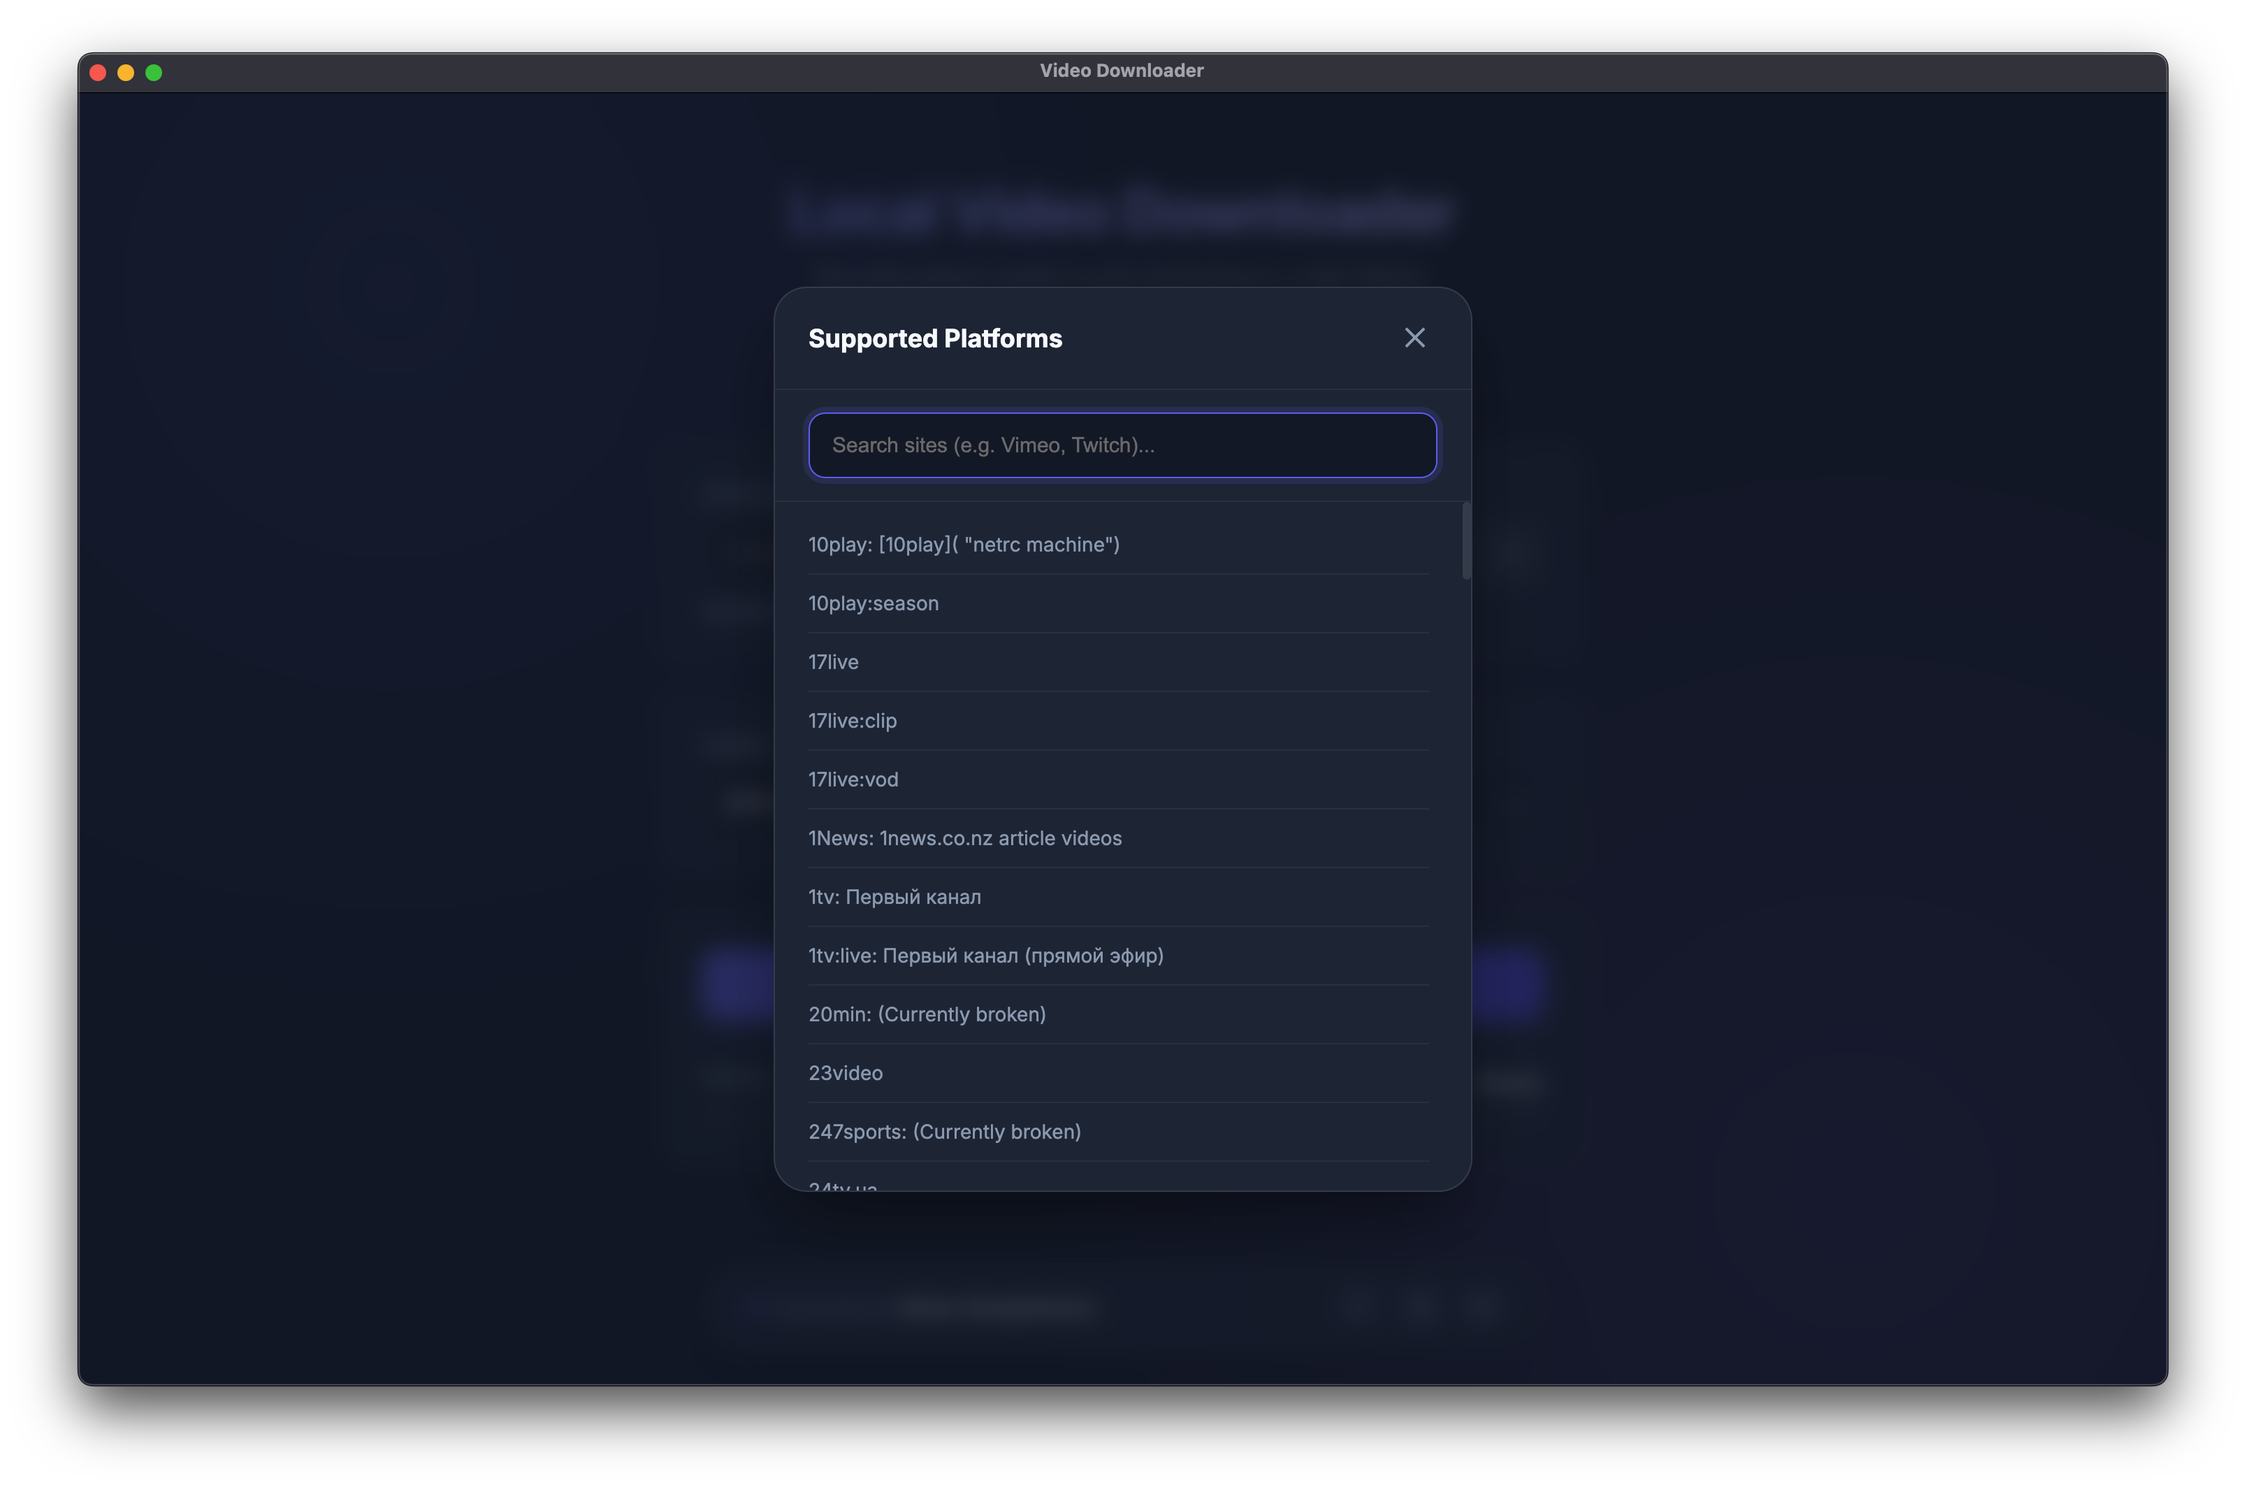
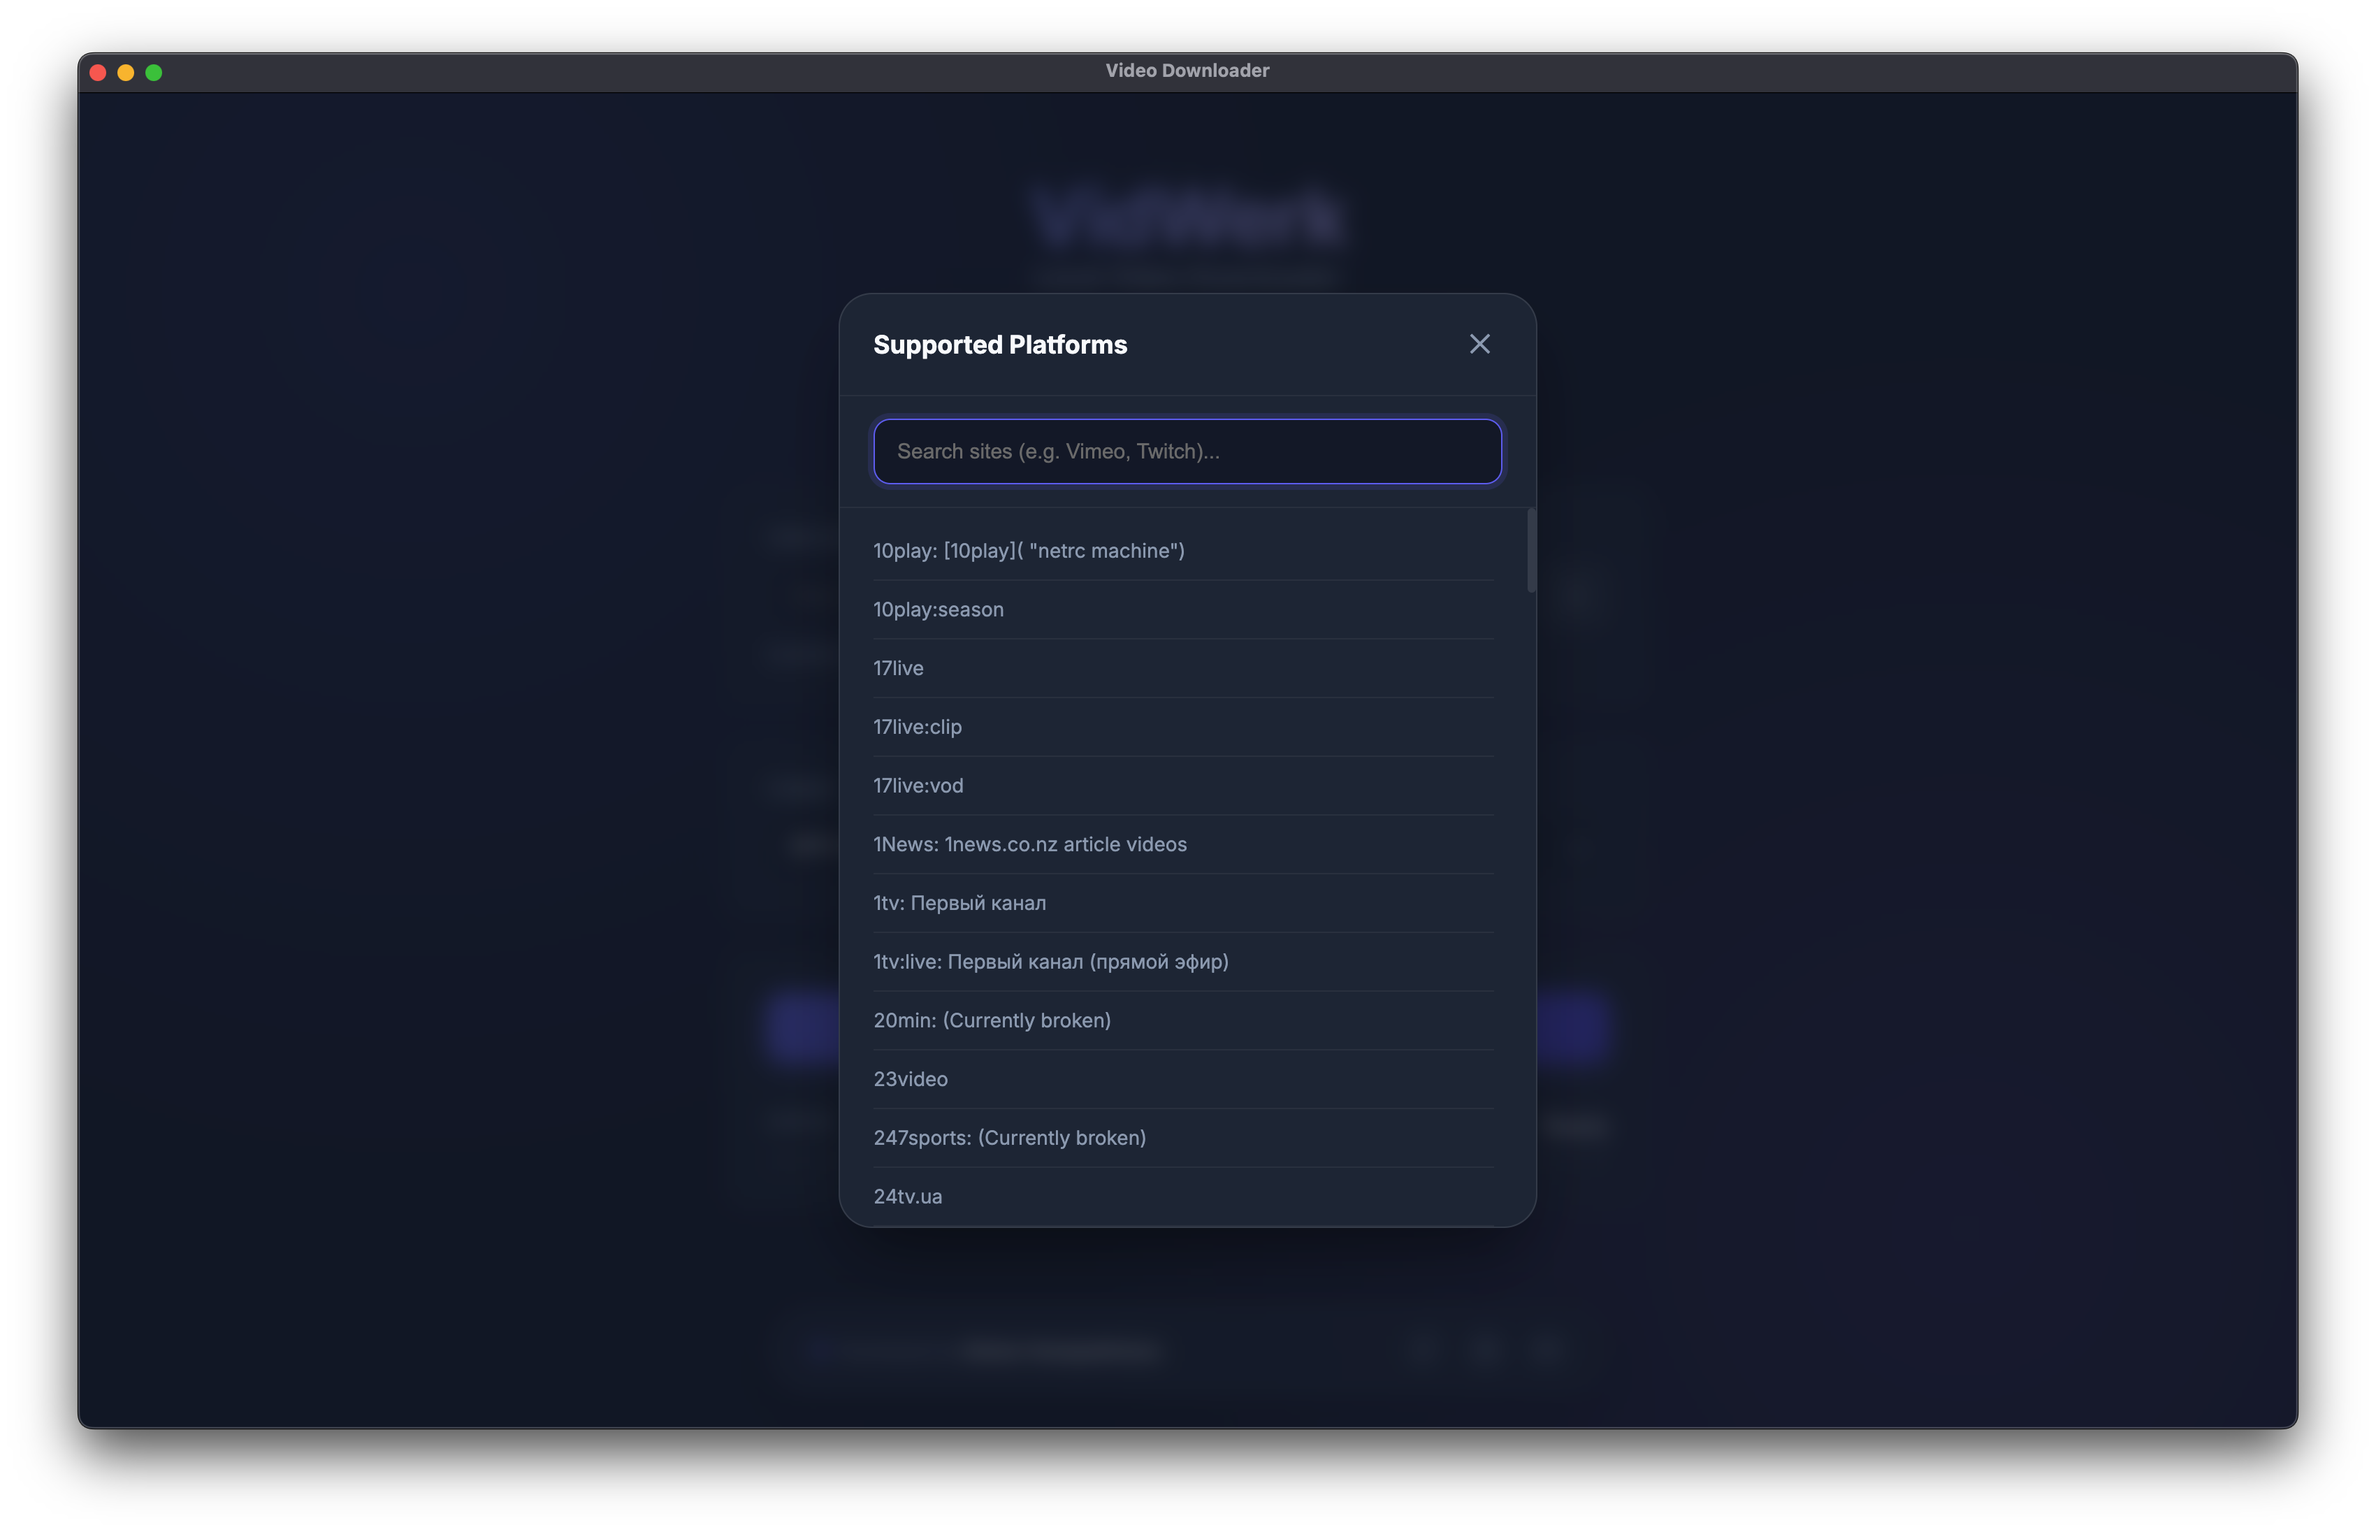
Update app Name

diff --git a/public/styles.css b/public/styles.css
@@ -57,13 +57,40 @@ body {
 }
 
 .header h1 {
-    font-size: 42px;
-    font-weight: 700;
-    letter-spacing: -1px;
     margin-bottom: 12px;
+    letter-spacing: -1px;
+}
+
+/* Brand title stacked (VidWerk big, subtitle below) */
+.brand-title {
+    display: flex;
+    flex-direction: column;
+    align-items: center; /* keep centered in header */
+    gap: 4px;
+    margin: 0;
+    line-height: 1.05;
+}
+
+.brand-main {
+    font-size: 56px; /* BIG VidWerk */
+    font-weight: 800;
+    letter-spacing: -1.4px;
     background: linear-gradient(135deg, #818cf8 0%, #c4b5fd 100%);
     -webkit-background-clip: text;
     -webkit-text-fill-color: transparent;
+}
+
+.brand-sub {
+    font-size: 18px; /* larger subtitle, still secondary */
+    font-weight: 650;
+    color: var(--text-secondary);
+    letter-spacing: 0.3px;
+    text-transform: none;
+}
+
+@media (max-width: 600px) {
+    .brand-main { font-size: 42px; }
+    .brand-sub { font-size: 16px; }
 }
 
 .header .subtitle {
@@ -403,7 +430,7 @@ body {
 @keyframes slideUpFooter { to { opacity: 1; transform: translateX(-50%) translateY(0); } }
 
 @media (max-width: 600px) {
-    .header h1 { font-size: 32px; } .grid-2 { grid-template-columns: 1fr; } .footer-dock { padding: 0 20px; }
+    .grid-2 { grid-template-columns: 1fr; } .footer-dock { padding: 0 20px; }
     .brand-text { display: none; } .brand-indicator { display: block; }
     .url-row { flex-direction: column; }
     .url-row .btn { width: 100%; }

diff --git a/main.js b/main.js
@@ -1,4 +1,5 @@
 const { app, BrowserWindow, shell } = require("electron");
+app.setName("VidWerk");
 const path = require("path");
 const http = require("http");
 
@@ -32,7 +33,7 @@ async function createMainWindow() {
         minWidth: 900,
         minHeight: 600,
         show: false,
-        title: "Local Video Downloader",
+        title: "VidWerk",
         autoHideMenuBar: true,
         icon: path.join(__dirname, "assets", "icon.png"),
         webPreferences: {

diff --git a/public/index.html b/public/index.html
@@ -16,7 +16,10 @@
 
 <div class="container">
     <header class="header">
-        <h1>Local Video Downloader</h1>
+        <h1 class="brand-title">
+            <span class="brand-main">VidWerk</span>
+            <span class="brand-sub">Local Video Downloader</span>
+        </h1>
         <p class="subtitle">
             Securely extract media to your local device in high fidelity.
         </p>

diff --git a/README.md b/README.md
@@ -1,19 +1,19 @@
-# 🎥 Local Video Downloader
+# 🎥 VidWerk – Local Video Downloader
 
-![Local Video Downloader UI](assets/screenshots/poster.png)
+![VidWerk – Local Video Downloader UI](assets/screenshots/poster.png)
 
 ---
 
 A lightweight cross-platform desktop downloader built with **yt-dlp**.  
-Download videos or audio from YouTube,Facebook,Instagram,Tiktok and **1000+ supported sites** — with clean quality options, progress tracking, and audio-merged MP4 output.
+Download videos or audio from YouTube, Facebook, Instagram, TikTok and **1000+ supported sites** — with clean quality options, progress tracking, and audio‑merged MP4 output.
 
 ---
 
 ## 🖼 Screenshot
 
-![Local Video Downloader UI](assets/screenshots/ui.png)
+![VidWerk – Local Video Downloader UI](assets/screenshots/ui.png)
 
-![Local Video Downloader UI](assets/screenshots/ui2.png)
+![VidWerk – Local Video Downloader UI](assets/screenshots/ui2.png)
 
 ---
 
@@ -39,11 +39,11 @@ Download the latest installers from the GitHub Releases page:
 ➡ **[Download Latest Release](https://github.com/sishanhewa/Local-Video-Downloader/releases/latest)**
 
 ### macOS
-- **Apple Silicon (M1/M2/M3):** `Local-Video-Downloader-2.0.5-arm64.dmg`
-- **Intel Mac:** `Local-Video-Downloader-2.0.5-x64.dmg`
+- **Apple Silicon (M1/M2/M3):** `VidWerk-2.0.5-arm64.dmg`
+- **Intel Mac:** `VidWerk-2.0.5-x64.dmg`
 
 ### Windows
-- `Local-Video-Downloader-Setup-2.0.5.exe`
+- `VidWerk-Setup-2.0.5.exe`
 
 ---
 
@@ -131,7 +131,7 @@ dist/
 ## 📂 Folder Structure
 
 ```
-Local-Video-Downloader/
+VidWerk-Local-Video-Downloader/
 ├─ assets/              # icons (.png / .icns / .ico)
 ├─ bin/
 │  ├─ mac/              # yt-dlp + ffmpeg mac binaries
